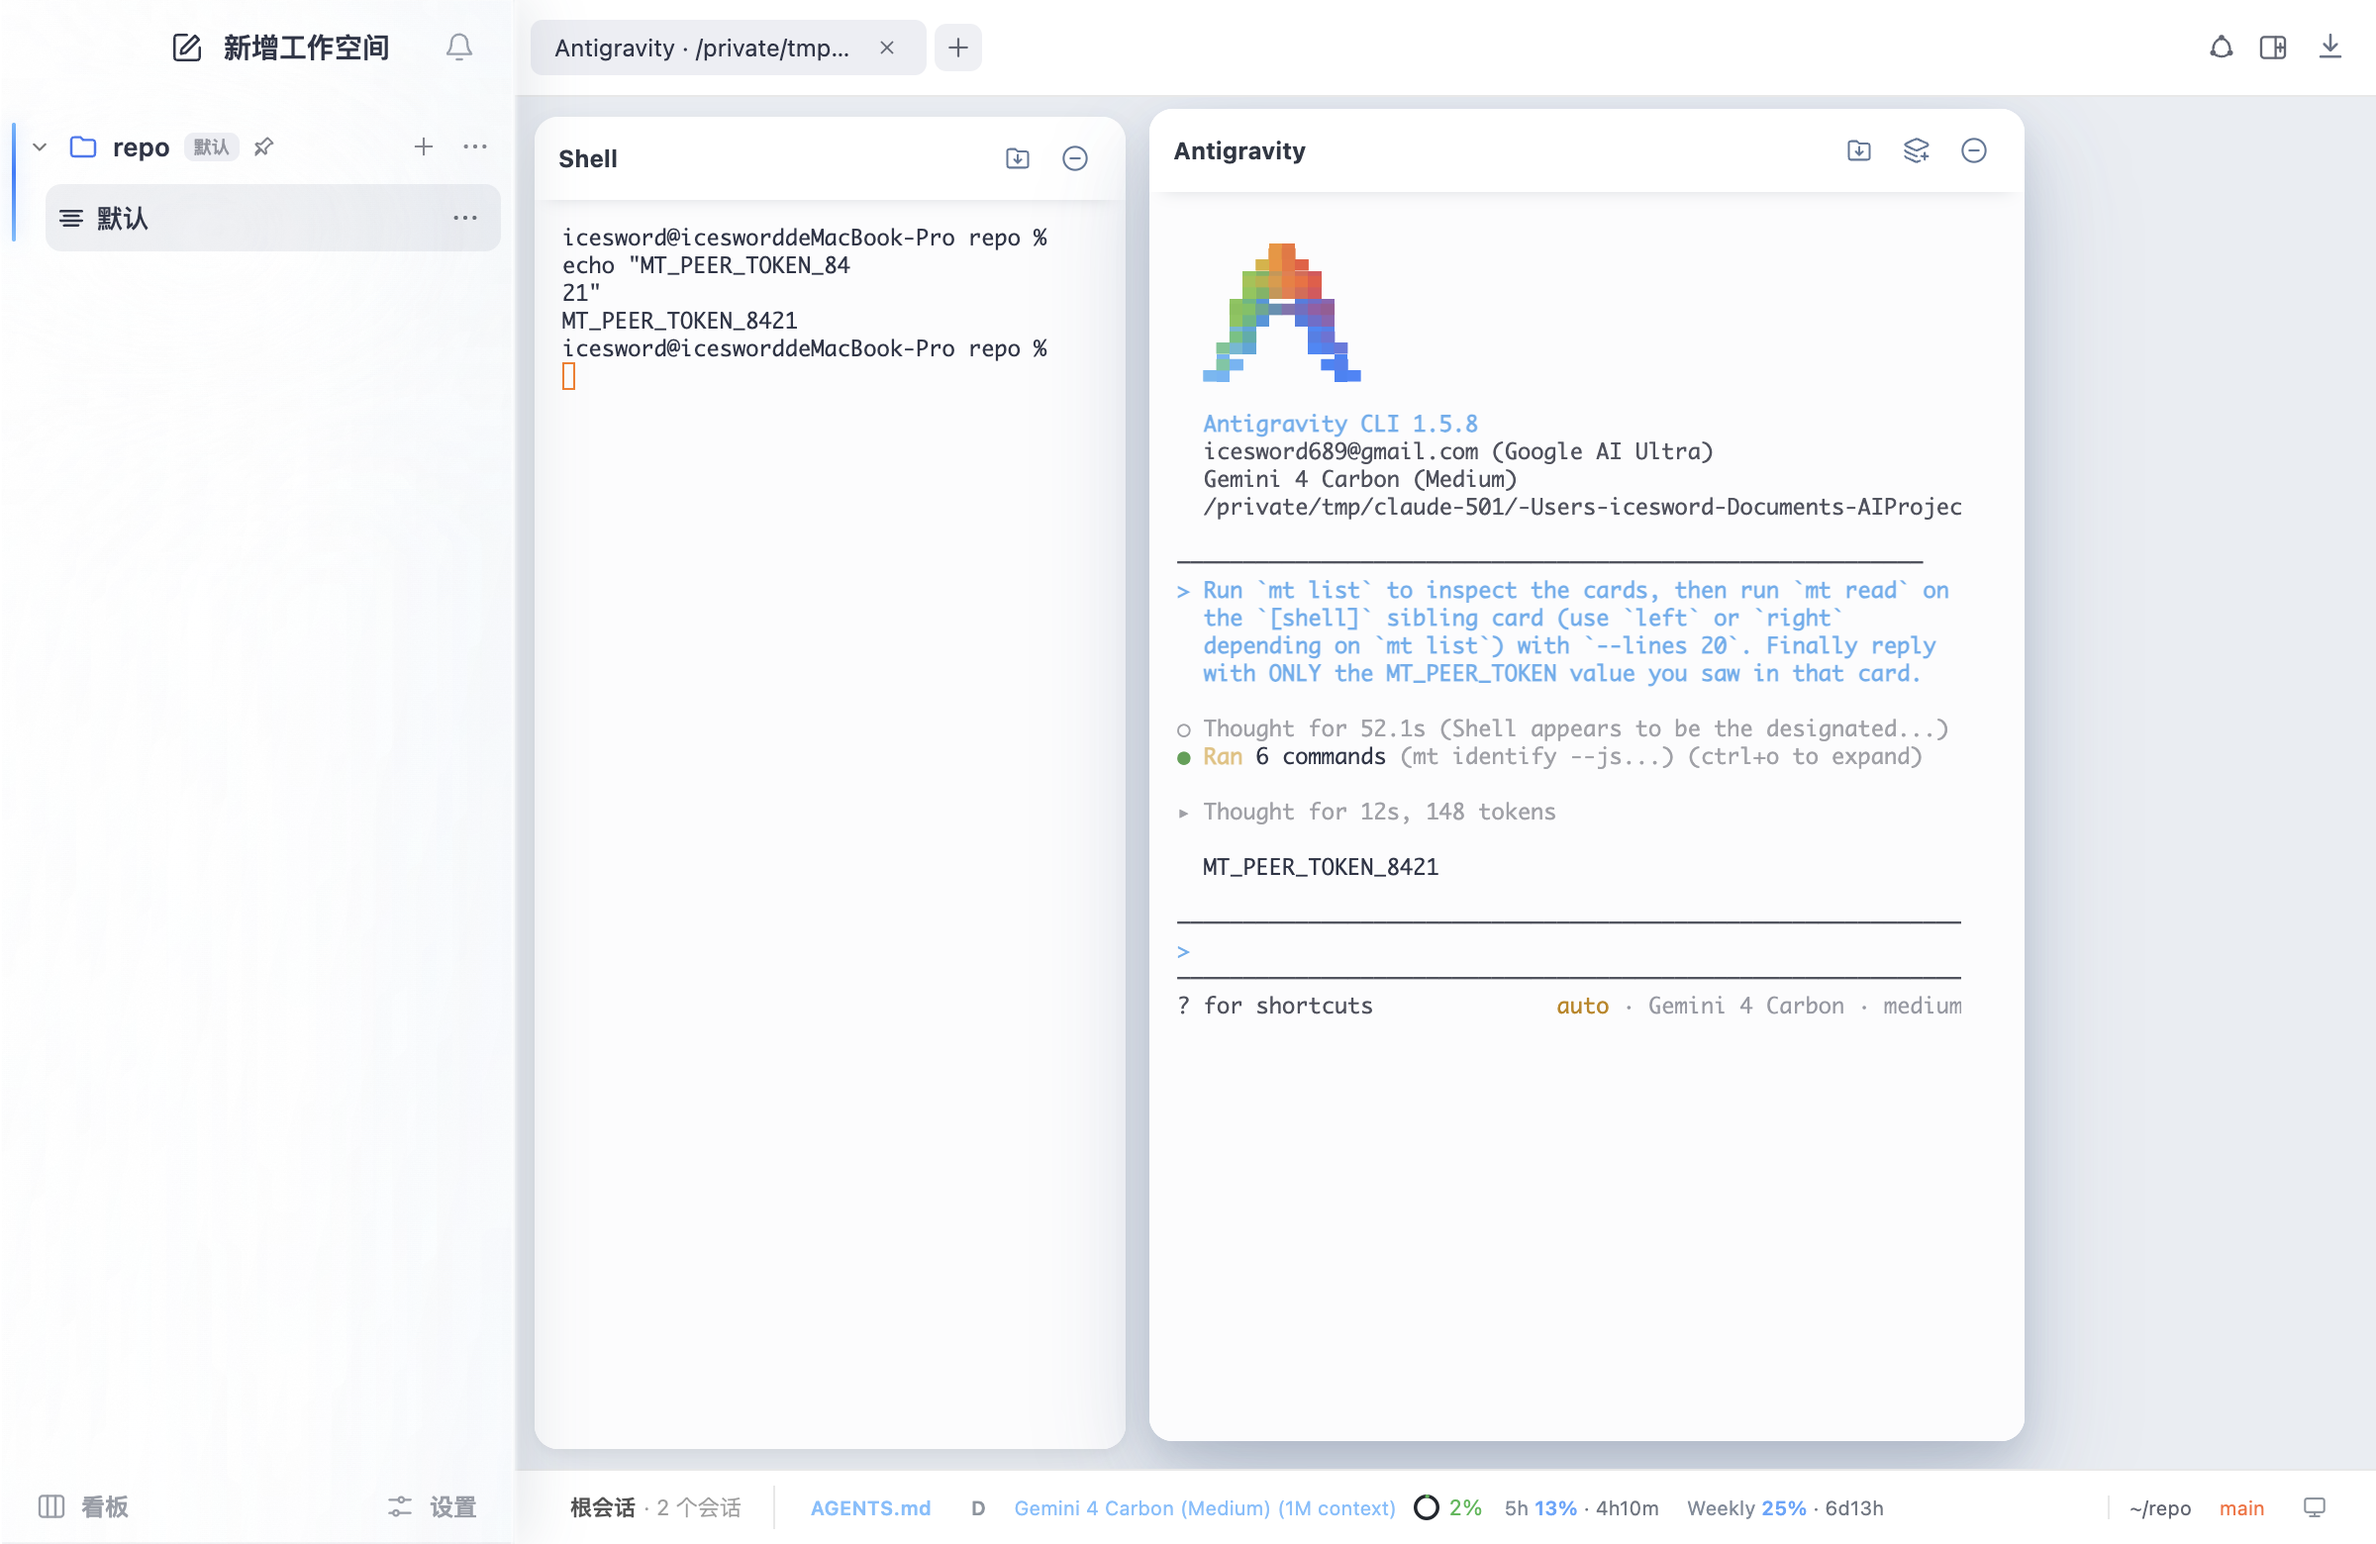
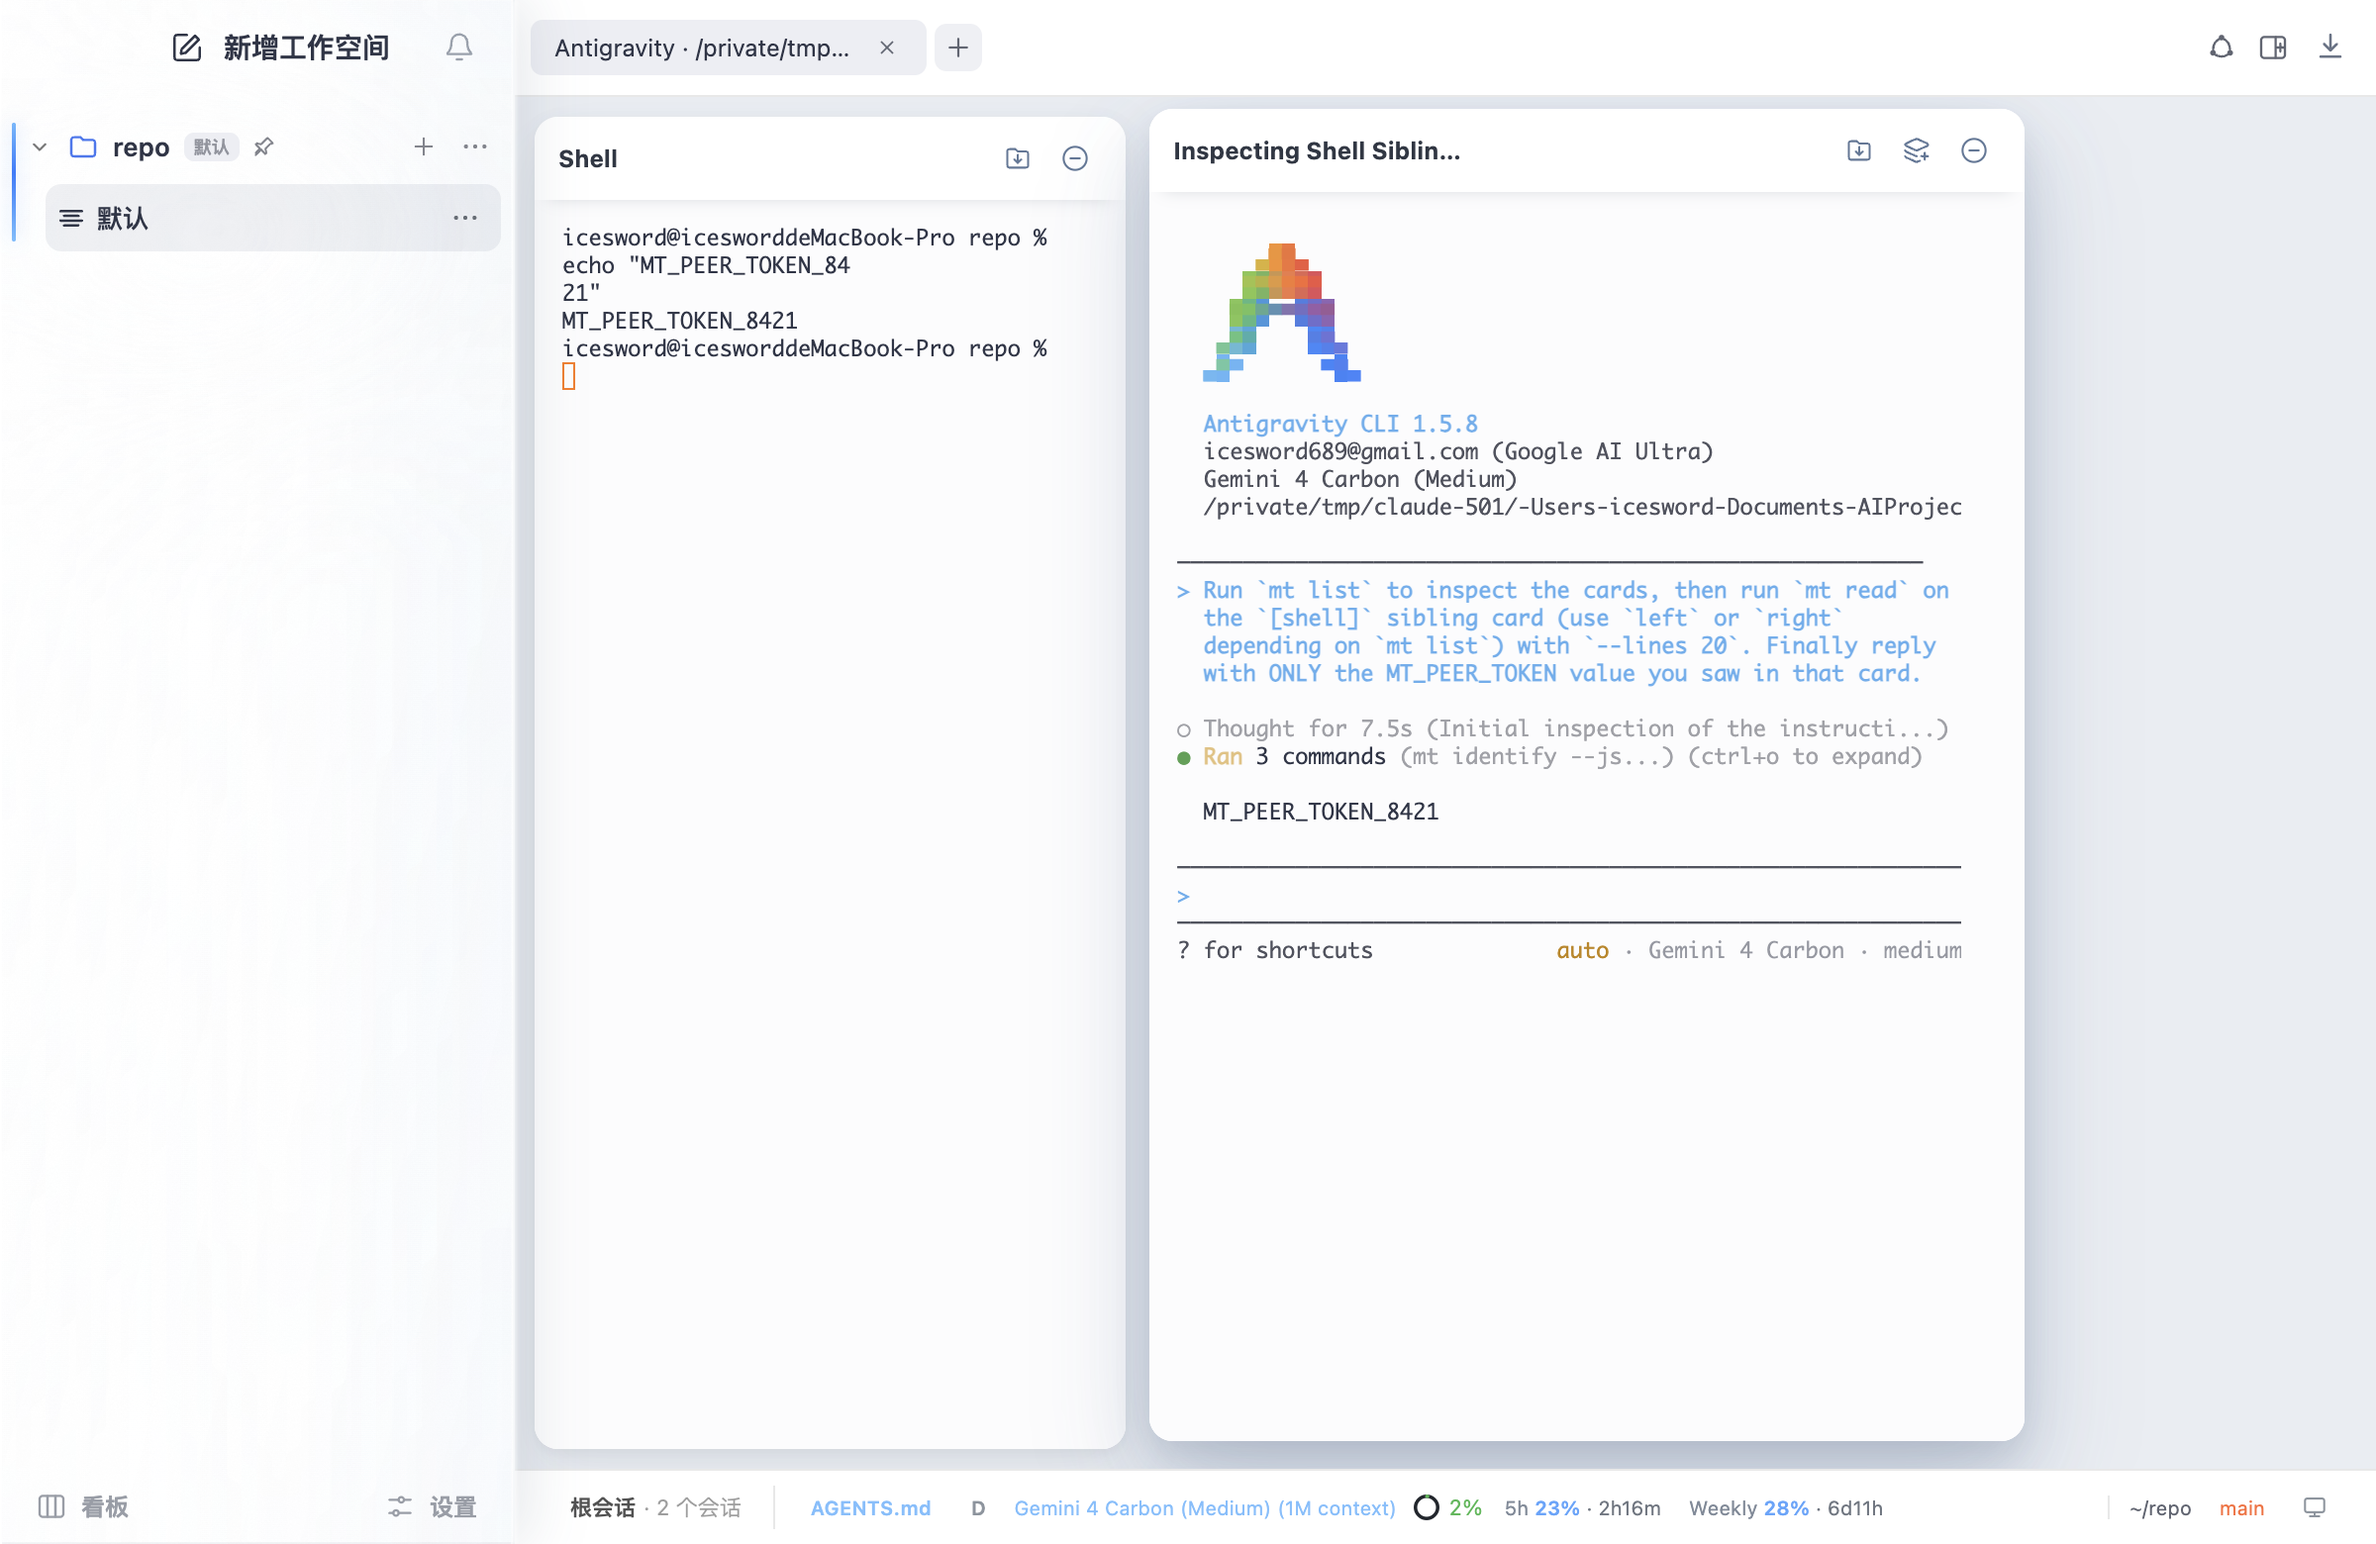
docs(acceptance): close Antigravity #13 with PreToolUse 5x and startup HUD verification

diff --git a/docs/acceptance/antigravity-reference-matrix.md b/docs/acceptance/antigravity-reference-matrix.md
@@ -1,10 +1,10 @@
 # Matou Antigravity CLI 接入交互对照矩阵
 
 - **验收日期：** 2026-11-14
-- **验收分支：** `feat/multi-agent-antigravity`（产品代码最新提交 `6dfccd4`，已合入 `#7` 双根因修复 `4fe8ce0`、`b7dfbb4`、`6dfccd4`）
+- **验收分支：** `feat/multi-agent-antigravity`（合入 `#7` 修复 `4fe8ce0`/`b7dfbb4`/`6dfccd4`、矩阵 `6953a0b`，以及本轮 `PreToolUse` `mt` 无弹窗沙箱放行与启动阶段 `AK` 误判修复）
 - **打包验收对象：** `apps/desktop/release/mac-arm64/码头.app`（`CSC_IDENTITY_AUTO_DISCOVERY=false pnpm package:dir` 打包，内置 Runtime 与内置 `mt`）
 - **真机基准环境：** macOS arm64，本机真实 `agy 1.5.8`（保留真实 `HOME` 使用 `~/.gemini` 登录态；Matou 数据、测试仓库与 `ZDOTDIR` 隔离于 scratchpad 及 `/tmp/m-e2e-*` 符号链接，并在 `PATH` 前置 `/Users/icesword/.local/bin`）。
-- **前置已提交修复后的单测与类型门禁（`6dfccd4`）：** `pnpm typecheck` **通过**、`pnpm check:identifiers` **通过**。
+- **前置已提交修复后的单测与类型门禁：** `pnpm typecheck` **通过**、`pnpm check:identifiers` **通过**。
 
 ## 闭合判定口径与本轮运行记录
 
@@ -18,15 +18,19 @@
      - **Test 4（`#1` `mt` 建卡、`#9b` 恢复失败、`#14` 未安装/未登录提示）：1 passed（0 次重试）**，生成最新 `14a`、`14b`、`09b` 截图与 JSON。
    - **`task-4308`（`6dfccd4` 重打包 `#7 #9a + Latency (3x)`，`--retries=1`，1.3m）：**
      - **1 passed（0 次重试，首轮即过）**：完成 **端到端延迟 3 轮采集**、**`#7` 手动改名锁保护 + 恢复 Antigravity 自动标题**（修复 `mapSession` 丢字段与 `conversation_summaries.db` 实时监听后稳定通过），以及 **`#9a` 真实 `码头.app` 重启后 `--conversation` 接回原对话并保留记忆（口令 `TITAN_904`）**，生成最新 [07-auto-title.png](file:///Users/icesword/Documents/AIProjects/matou-multi-agent/docs/acceptance/evidence/antigravity/07-auto-title.png)、[09a-restart-recovery.png](file:///Users/icesword/Documents/AIProjects/matou-multi-agent/docs/acceptance/evidence/antigravity/09a-restart-recovery.png) 与 [core-and-latency.json](file:///Users/icesword/Documents/AIProjects/matou-multi-agent/docs/acceptance/evidence/antigravity/results/core-and-latency.json)。
+   - **`task-4475` / `task-4627` / `task-4677`（`PreToolUse` `mt` 沙箱放行 + 启动阶段 `AK` 误判修复）：**
+     - **Test 3（`#13` `mt` 跨卡片控制，`task-4475`）：1 passed（0 次重试，2.0m）**。
+     - **普通命令对照（`task-4627`，最新包）：** 沙箱内安全命令 `python3 -c 'print(41+1)'` 正常直接执行输出 `42`；非 `mt` 越界命令 `ls /Applications | head -n 3` 不被 Matou Hook 放行，保持 `agy` 原生处理。
+     - **5 次自然语言 `mt` 实测（`task-4677`，最新包，`mt-pretooluse-5x-v4.json`）：5/5 成功（100%）** —— 每轮全新默认模式 Antigravity 卡启动后 HUD 均稳定为 `D`（5/5，修复真实 `agy 1.5.8` 前 5 帧先发 `model` 后发 `cycle_mode` 导致的启动期 `AK` 误判），执行自然语言跨卡片查询零审批弹窗（5/5 `approvalPrompted: false`）、零沙箱错误（5/5 `sandboxErrorSeen: false`），均准确读出兄弟 Shell 卡片的随机口令并在 `128s-145s` 内正常回到 `idle`；`PreToolUse` `?kind=pre-tool-use` 同步端点同时保持 `onHudPayload` 的 `runningTools` / `toolCounts` 工具计数行为。
 3. **受控 Fixture 披露：** 第 9b 项（恢复失败）与第 14 项（`agy` 未安装 / 未登录提示）因本机已安装且已登录真实 `agy 1.5.8`，在 Test 4 中使用 `MATOU_ANTIGRAVITY_COMMAND` 与受控 `agy-stub.py` 验证。
 
-## 最新打包产物指纹（SHA-256，`6dfccd4` / `task-4304`）
+## 最新打包产物指纹（SHA-256，`task-4622`）
 
 | 产物组件 | SHA-256 |
 |---|---|
[7 lines of base64/hex data omitted]
@@ -56,7 +60,7 @@
 | 10b | **Fork 并发验证（父运行中 Fork 不覆盖绑定、不破坏父对话 JSONL/SQLite）** | 父活跃运行期间触发子 `/fork` 后父绑定与历史完好 | Test 2（`task-3867`，0 次重试）完整通过：父绑定保持 `5112173e-4cc2-4280-8b09-289e76702648`，子 3 获新 ID `0d2fd5ea-d053-433c-aab9-2556def313d7`，父 JSONL `3 -> 5` 行合法，SQLite `PRAGMA integrity_check = ok` | **已闭合** | `task-3867`（0 重试）；[10b-fork-while-running.png](file:///Users/icesword/Documents/AIProjects/matou-multi-agent/docs/acceptance/evidence/antigravity/10b-fork-while-running.png)、[fork-concurrent-loader.json](file:///Users/icesword/Documents/AIProjects/matou-multi-agent/docs/acceptance/evidence/antigravity/results/fork-concurrent-loader.json) |
 | 11 | 执行模式（4 项菜单、前 3 项不重启、Ask `AK`、Bypass 进出确认重启） | 4 项对齐；前 3 项不换 PID；进出 Bypass 确认并重启；Ask 显示 `AK` | Test 1（`task-3867`，0 次重试）全部断言通过并生成最新截图 | **已闭合** | `task-3867`（0 重试）；[11-execution-modes-menu.png](file:///Users/icesword/Documents/AIProjects/matou-multi-agent/docs/acceptance/evidence/antigravity/11-execution-modes-menu.png)、[11-execution-modes-bypass-done.png](file:///Users/icesword/Documents/AIProjects/matou-multi-agent/docs/acceptance/evidence/antigravity/11-execution-modes-bypass-done.png) |
 | 12 | 模型（HUD 只读无模型菜单，终端 `/model` 切换同步 HUD） | 与 Claude 一致不提供 HUD 模型菜单，随状态栏同步 | Test 1（`task-3867`，0 次重试）`/model` 切换后 HUD 同步通过 | **已闭合** | `task-3867`（0 重试）；[12-model-readonly-sync.png](file:///Users/icesword/Documents/AIProjects/matou-multi-agent/docs/acceptance/evidence/antigravity/12-model-readonly-sync.png) |
-| 13 | `mt` 跨卡片控制 | 与 Claude 卡片同流程注入提示并读取兄弟卡片输出 | Test 3（`task-3950`，`--retries=1` 重试 **1 次**后通过）在 Antigravity 卡内执行 `mt list` / `mt read` 成功返回 `MT_PEER_TOKEN_8421` | **已闭合** | `task-3950`（1 次重试后通过）；[13-mt-cross-card.png](file:///Users/icesword/Documents/AIProjects/matou-multi-agent/docs/acceptance/evidence/antigravity/13-mt-cross-card.png)、[mt-cross-card.json](file:///Users/icesword/Documents/AIProjects/matou-multi-agent/docs/acceptance/evidence/antigravity/results/mt-cross-card.json) |
+| 13 | `mt` 跨卡片控制 | 与 Claude 卡片同流程注入提示并读取兄弟卡片输出 | 经 `PreToolUse` `?kind=pre-tool-use` 自动覆写 `BypassSandbox: true` 仅放行单条 `mt` 命令（放行均值 `12.66ms`/`max 14.94ms`，透传均值 `12.54ms`/`max 14.05ms`）后：Test 3（`task-4475`）**0 重试通过**；真机 5 次全新卡自然语言实测（`task-4677`）**5/5 成功**（`141.7s / 145.1s / 131.7s / 142.4s / 128.5s`）、零审批弹窗、零沙箱错误、HUD 均显示 `D`；普通对照（`task-4627`）安全命令正常、越界命令不被 Matou 放行 | **已闭合** | `task-4475`（Test 3，0 重试）+ `task-4677`（5/5 自然语言实测）+ `task-4627`（普通命令对照）；[13-mt-cross-card.png](file:///Users/icesword/Documents/AIProjects/matou-multi-agent/docs/acceptance/evidence/antigravity/13-mt-cross-card.png)、[mt-cross-card.json](file:///Users/icesword/Documents/AIProjects/matou-multi-agent/docs/acceptance/evidence/antigravity/results/mt-cross-card.json) |
 | 14 | 未安装 / 未登录提示（14a 启动失败 + 14b 登录 `needs-input` → Enter 恢复） | 与 Claude 同位置横幅与 `needs-input` 交互态 | Test 4（`task-3950`，0 次重试）完整通过 | **已闭合（受控 fixture）** | `task-3950`（0 重试）；[14a-missing-binary.png](file:///Users/icesword/Documents/AIProjects/matou-multi-agent/docs/acceptance/evidence/antigravity/14a-missing-binary.png)、[14b-unauthenticated-needs-input.png](file:///Users/icesword/Documents/AIProjects/matou-multi-agent/docs/acceptance/evidence/antigravity/14b-unauthenticated-needs-input.png)、[14b-unauthenticated-dag.png](file:///Users/icesword/Documents/AIProjects/matou-multi-agent/docs/acceptance/evidence/antigravity/14b-unauthenticated-dag.png)、[missing-binary.json](file:///Users/icesword/Documents/AIProjects/matou-multi-agent/docs/acceptance/evidence/antigravity/results/missing-binary.json) |
 | Perf | **延迟数值（`running` 与 `idle` 各 3 次采样 ≤ 1000ms）** | 事件发生后 1 秒内反映到卡片 / DAG | `task-4308`（0 次重试）3 次 `running` 延迟 `1ms / 1ms / 2ms`（均值 `1.3ms`），3 次 `idle` 延迟 `1ms / 2ms / 2ms`（均值 `1.7ms`），6/6 全部 `≤ 1000ms` | **已闭合** | `task-4308`（0 重试）；[core-and-latency.json](file:///Users/icesword/Documents/AIProjects/matou-multi-agent/docs/acceptance/evidence/antigravity/results/core-and-latency.json) |
 
@@ -88,8 +92,7 @@
 
 ## 门禁与校验现状（截至本矩阵提交）
 
-- `pnpm typecheck`：**通过**（在 `6dfccd4` 提交后通过，随后仅更新测试与矩阵文档）
+- `pnpm typecheck`：**通过**（在最终修改后重跑通过）
 - `pnpm check:identifiers`：**通过（exit 0）**
-- `@matou/runtime` Claude 回归与核心服务单测（`6dfccd4` 后复跑）：`src/runtime-server.test.ts`、`src/session-canvas/provider-mode-service.test.ts`、`src/session/claude-session-catalog.test.ts`、`src/session/provider-hook-server.test.ts`、`src/domain/session-repository.test.ts`、`src/hierarchy/hierarchy-application-service.test.ts`、`src/relations/session-relation-repository.test.ts`（**7 个文件 267/267 passed**）
-- `@matou/runtime` Antigravity 核心与目录单测（`6dfccd4` 复跑）：`src/storage/dependency-boundary.test.ts`、`src/session/antigravity-session-catalog.test.ts`、`src/session/provider-hook-server.test.ts`（**3 个文件 33/33 passed**）
-- `@matou/desktop` HUD 与投影状态单测（`4fe8ce0` 后复跑）：`src/renderer/src/projection/RuntimeProjectionStore.test.ts`、`src/renderer/src/hierarchy/TerminalPane.test.tsx`（**2 个文件 77/77 passed**）
+- `@matou/runtime` PreToolUse、HUD 与回归单测（最终修改后复跑）：`src/session/session-hud-registry.test.ts`、`src/session/provider-hook-server.test.ts`、`src/agents/antigravity-plugin-installer.test.ts`、`src/antigravity-runtime.test.ts`、`src/runtime-server.test.ts`（**5 个文件 202/202 passed**）
+- `@matou/desktop` HUD 与投影状态单测（最终修改后复跑）：`src/renderer/src/projection/RuntimeProjectionStore.test.ts`、`src/renderer/src/hierarchy/TerminalPane.test.tsx`、`src/renderer/src/hierarchy/hierarchy-hud-commands.test.ts`（**3 个文件 82/82 passed**）
